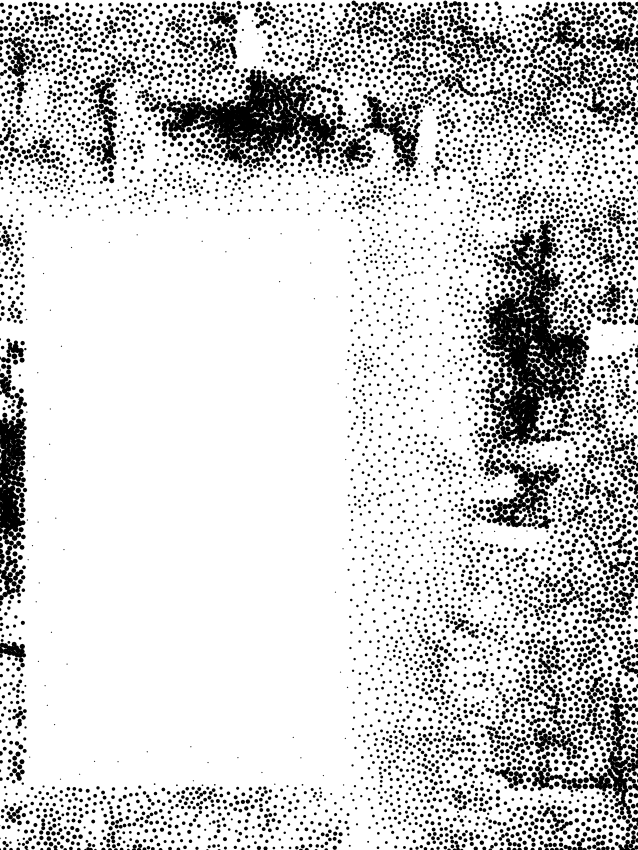
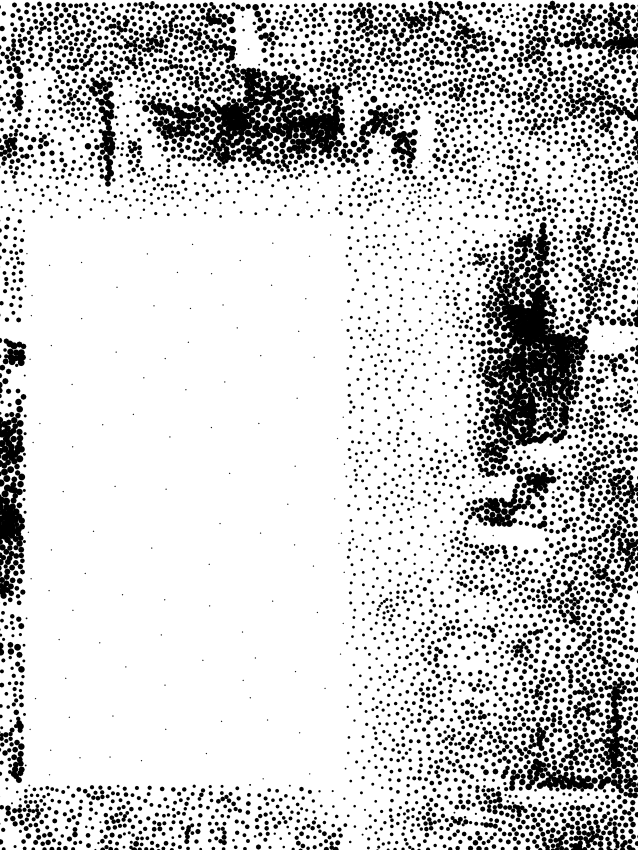
Stipple base en essai Madeleines et Chant III dilaté

diff --git a/programme/index.html b/programme/index.html
@@ -97,7 +97,7 @@
 
         <div id="page-8" class="preview-page">
              <div class="moveable" style="top: 30px; left: 10.01041793823242px; width: 404px; height: 1149px;">
-                <img style="margin-left:-200px; margin-top:0px; width:1200px;" src="tmp-ludi/madeleines_0001_elephant.png" />
+                <img style="margin-left:-200px; margin-top:0px; width:1200px;" src="layouts/madeleines_0001_elephant_stipple.png" />
             </div>
         </div>
 
@@ -109,7 +109,7 @@
 
         <div id="page-10" class="preview-page">
             <div class="moveable" style="top: 100px; left: 10.01041793823242px; width: 804px; height: 1149px;">
-                <img style="margin-left:-600px; margin-top:0px; width:1000px;" src="tmp-ludi/madeleines_0001_elephant.png" />
+                <img style="margin-left:-600px; margin-top:0px; width:1000px;" src="layouts/madeleines_0001_elephant_stipple.png" />
             </div>
         </div>
 
@@ -126,8 +126,8 @@
         </div>
 
         <div id="page-13" class="preview-page">
-             <div class="moveable" style="top: 0px; left: 38px; width: 863px; height: 1144px;">
-                <img style="margin-left:-800px; margin-top:-190px; width:1800px;" src="tmp-ludi/aigle-trame-4-big.png" />
+              <div class="moveable" style="top: 0px; left: 12mm; width: 998px; height: 1268px;">
+                <img class="fit-height" style="margin-top:0px;" src="layouts/page13-chant-test_stipple.png"/>
             </div>
         </div>
 
